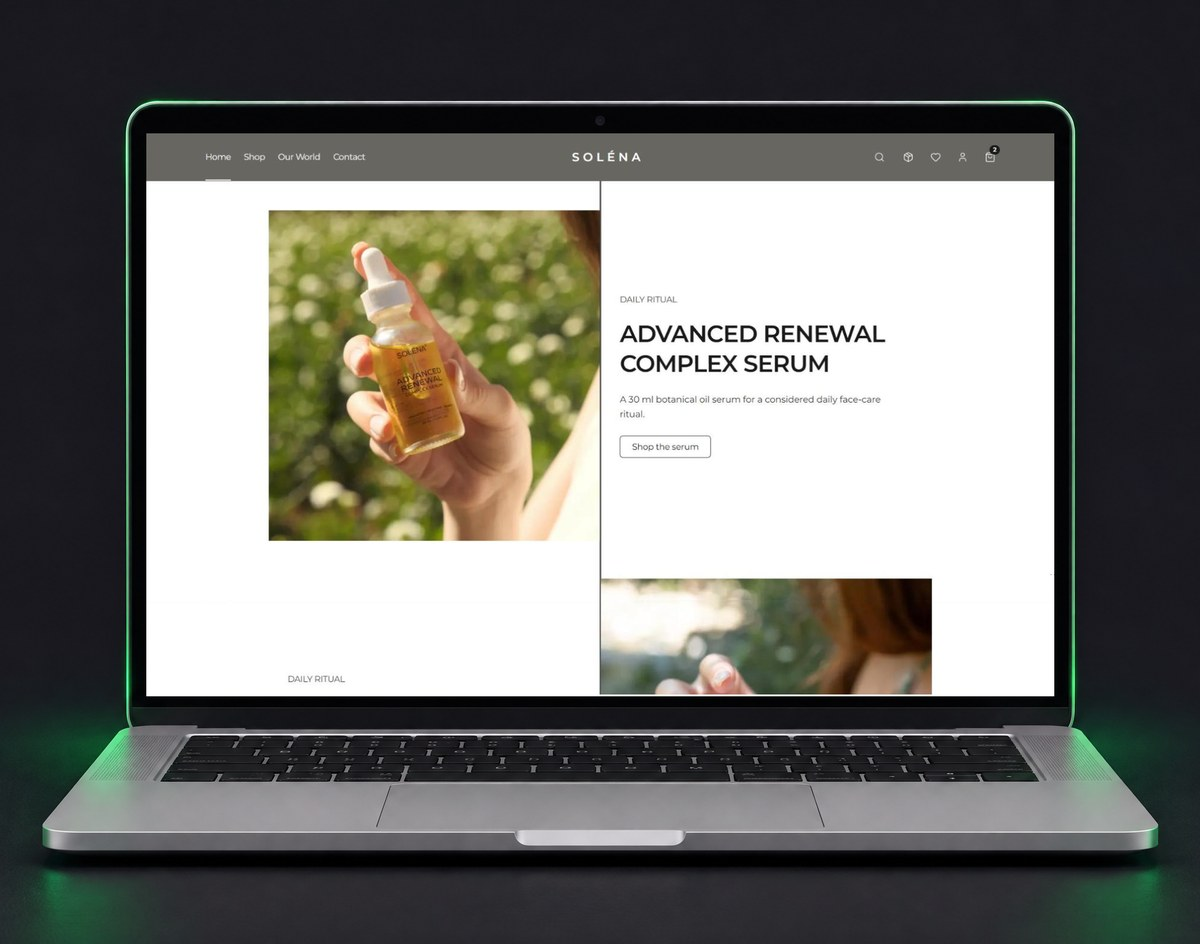
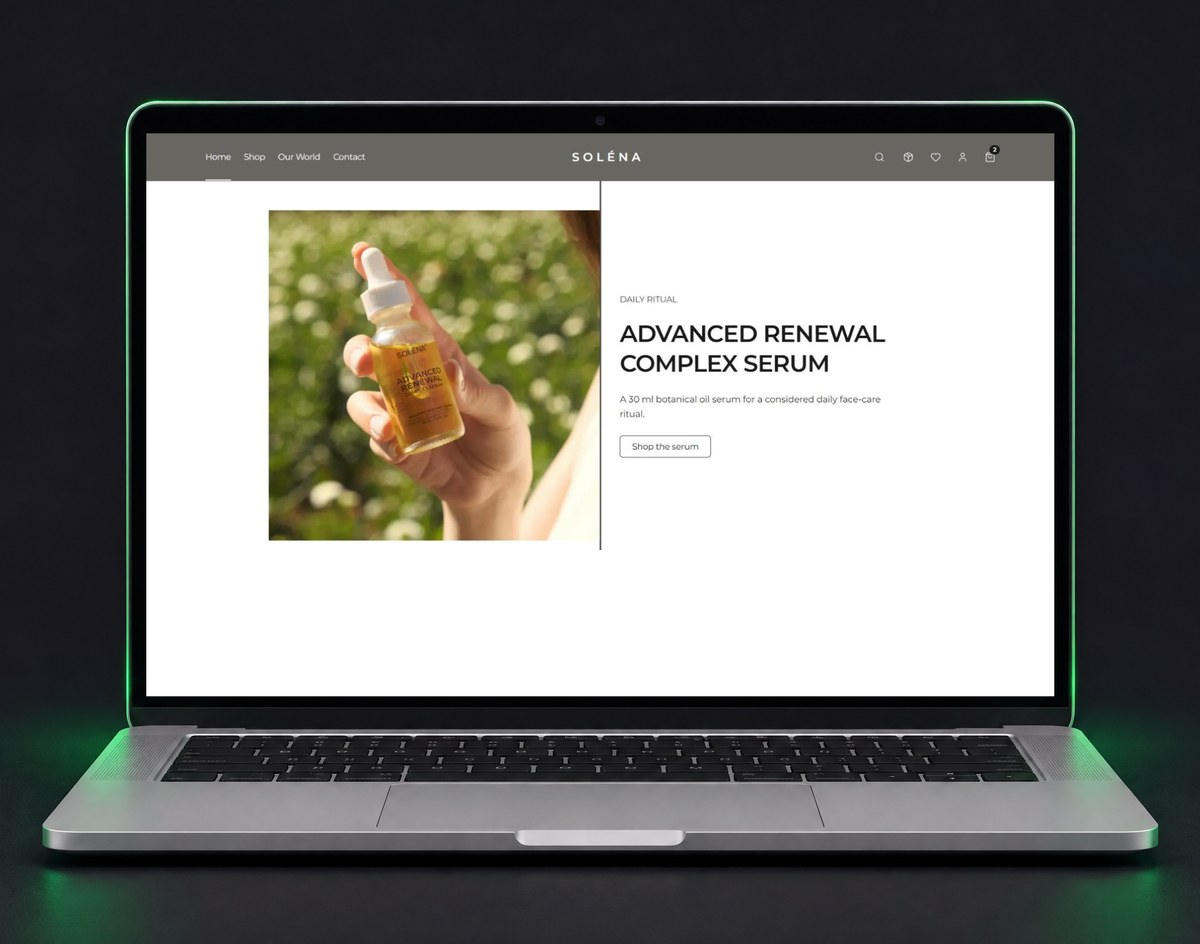
Fix review findings: full images on phones, slider buttons, captures
- Work images keep their full shape on phones (aspect box below xl)
  instead of being cropped at the sides
- Slider arrows react to clicks anywhere on the button, with labels
- Retook Flyesim (whole hero), Todos (with sample todos), Soléna (no
  half-scrolled section); removed cursor marks; cleaned the reflection
  under the Zaytoun Store App phone
- CPaaS description reads in order; fixed fitness, calendar, Hijri and
  Muslim typos

Changed region(s): [[0.4933, 0.5837, 0.8017, 0.7373], [0.2467, 0.7066, 0.2775, 0.7373]]

diff --git a/app/work/page.jsx b/app/work/page.jsx
@@ -39,7 +39,7 @@ const projects = [
     category: "Fullstack",
     title: "CPaaS Platform",
     description:
-      "Communications platform at Protel for business messaging over WhatsApp, Messenger and Instagram. Full-stack development plus the networking and Ubuntu server engineering behind it: flows, ticketing and reseller accounts.",
+      "Communications platform at Protel for business messaging over WhatsApp, Messenger and Instagram, with flows, ticketing and reseller accounts. Full-stack development plus the networking and Ubuntu server engineering behind it.",
     stack: [
       { name: "PHP" },
       { name: "SQL Server" },
@@ -170,7 +170,7 @@ const projects = [
     category: "Fullstack",
     title: "VivaPain",
     description:
-      "Android application that will help you in your fitniss road from food routine to workout routines with professional trainers and great system flow.",
+      "Android application that will help you in your fitness road from food routine to workout routines with professional trainers and great system flow.",
     stack: [{ name: "Node.Js" }, { name: "Java" }, { name: "MongoDB" }],
     image: "/assets/work/vivapain.jpg",
     live: "",
@@ -231,7 +231,7 @@ const projects = [
     category: "Backend",
     title: "Muslim Prayers API",
     description:
-      "API that will serve every muslim his prayer times, calender, hijri dates, etc.",
+      "API that will serve every Muslim his prayer times, calendar, Hijri dates, etc.",
     stack: [{ name: "Node.Js" }],
     image: "/assets/work/prayers-api.jpg",
     live: "",
@@ -345,7 +345,7 @@ const Work = () => {
               {projects.map((project, index) => {
                 return (
                   <SwiperSlide key={index} className="w-gull">
-                    <div className="h-[460px] relative group flex justify-center items-center bg-pink-50-20">
+                    <div className="aspect-[1200/944] xl:aspect-auto xl:h-[460px] relative group flex justify-center items-center">
                       <div className="absolute top-0 bottom-0 w-full h-full bg-black/10 z-10"></div>
                       <div className="relative w-full h-full">
                         <Image

diff --git a/components/WorkSliderBtns.jsx b/components/WorkSliderBtns.jsx
@@ -7,17 +7,19 @@ const WorkSliderBtns = ({ containerStyles, btnStyles, iconsStyles }) => {
   const swiper = useSwiper();
   return (
     <div className={containerStyles}>
-      <button className={btnStyles}>
-        <PiCaretLeftBold
-          className={iconsStyles}
-          onClick={() => swiper.slidePrev()}
-        />
+      <button
+        className={btnStyles}
+        onClick={() => swiper.slidePrev()}
+        aria-label="Previous project"
+      >
+        <PiCaretLeftBold className={iconsStyles} />
       </button>
-      <button className={btnStyles}>
-        <PiCaretRightBold
-          className={iconsStyles}
-          onClick={() => swiper.slideNext()}
-        />
+      <button
+        className={btnStyles}
+        onClick={() => swiper.slideNext()}
+        aria-label="Next project"
+      >
+        <PiCaretRightBold className={iconsStyles} />
       </button>
     </div>
   );
